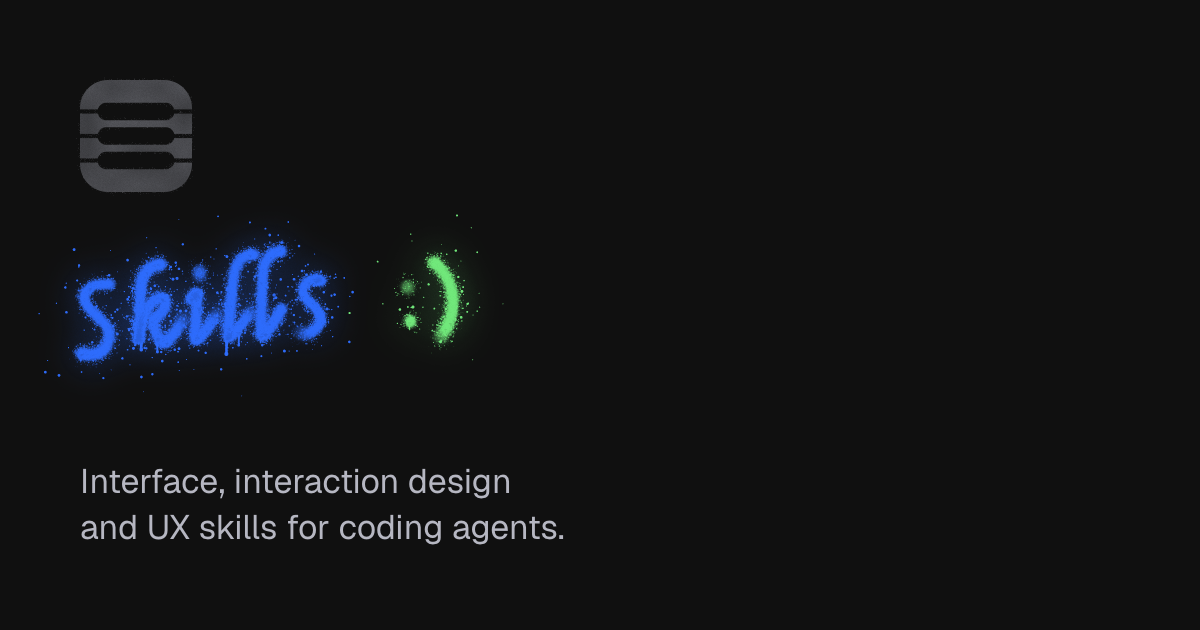
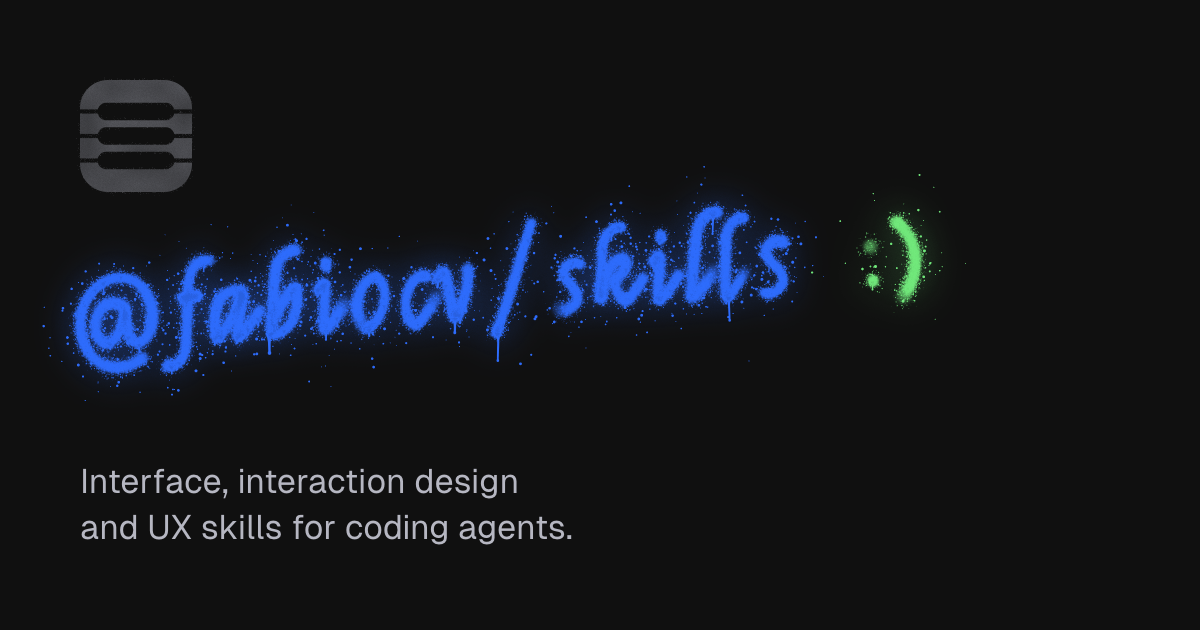
feat: the share image sprays @fabiocv/skills, as skedrick.fabio.cv's sprays its package

diff --git a/site/src/hand.ts b/site/src/hand.ts
@@ -264,4 +264,11 @@ export const GLYPHS: Record<string, [advance: number, strokes: string]> = {
   ],
   "'": [340, '211 794 170 611'],
   '-': [513, '126 293 268 296 375 318'],
+  // Not among the glyphs taken from the font: drawn to match them, as on
+  // ui.fabio.cv and skedrick.fabio.cv.
+  '@': [
+    800,
+    '500 420 400 500 270 470 190 350 175 210 230 110 320 110 420 220 500 420 480 240 490 120 560 60 660 110 740 250 750 440 680 620 540 720 370 720 210 640 90 500 30 310 50 110 150 -60 310 -140 480 -130 600 -70',
+  ],
+  '/': [430, '20 -130 130 130 260 480 380 800'],
 };

diff --git a/site/src/draw.tsx b/site/src/draw.tsx
@@ -16,5 +16,5 @@ document.head.append(style);
 document.documentElement.classList.add('dark');
 
 createRoot(document.getElementById('root')!).render(
-  <OgImage name="Skills" summary={SUMMARY} Logo={SkillsLogo} />,
+  <OgImage name="@fabiocv/skills" summary={SUMMARY} Logo={SkillsLogo} />,
 );
